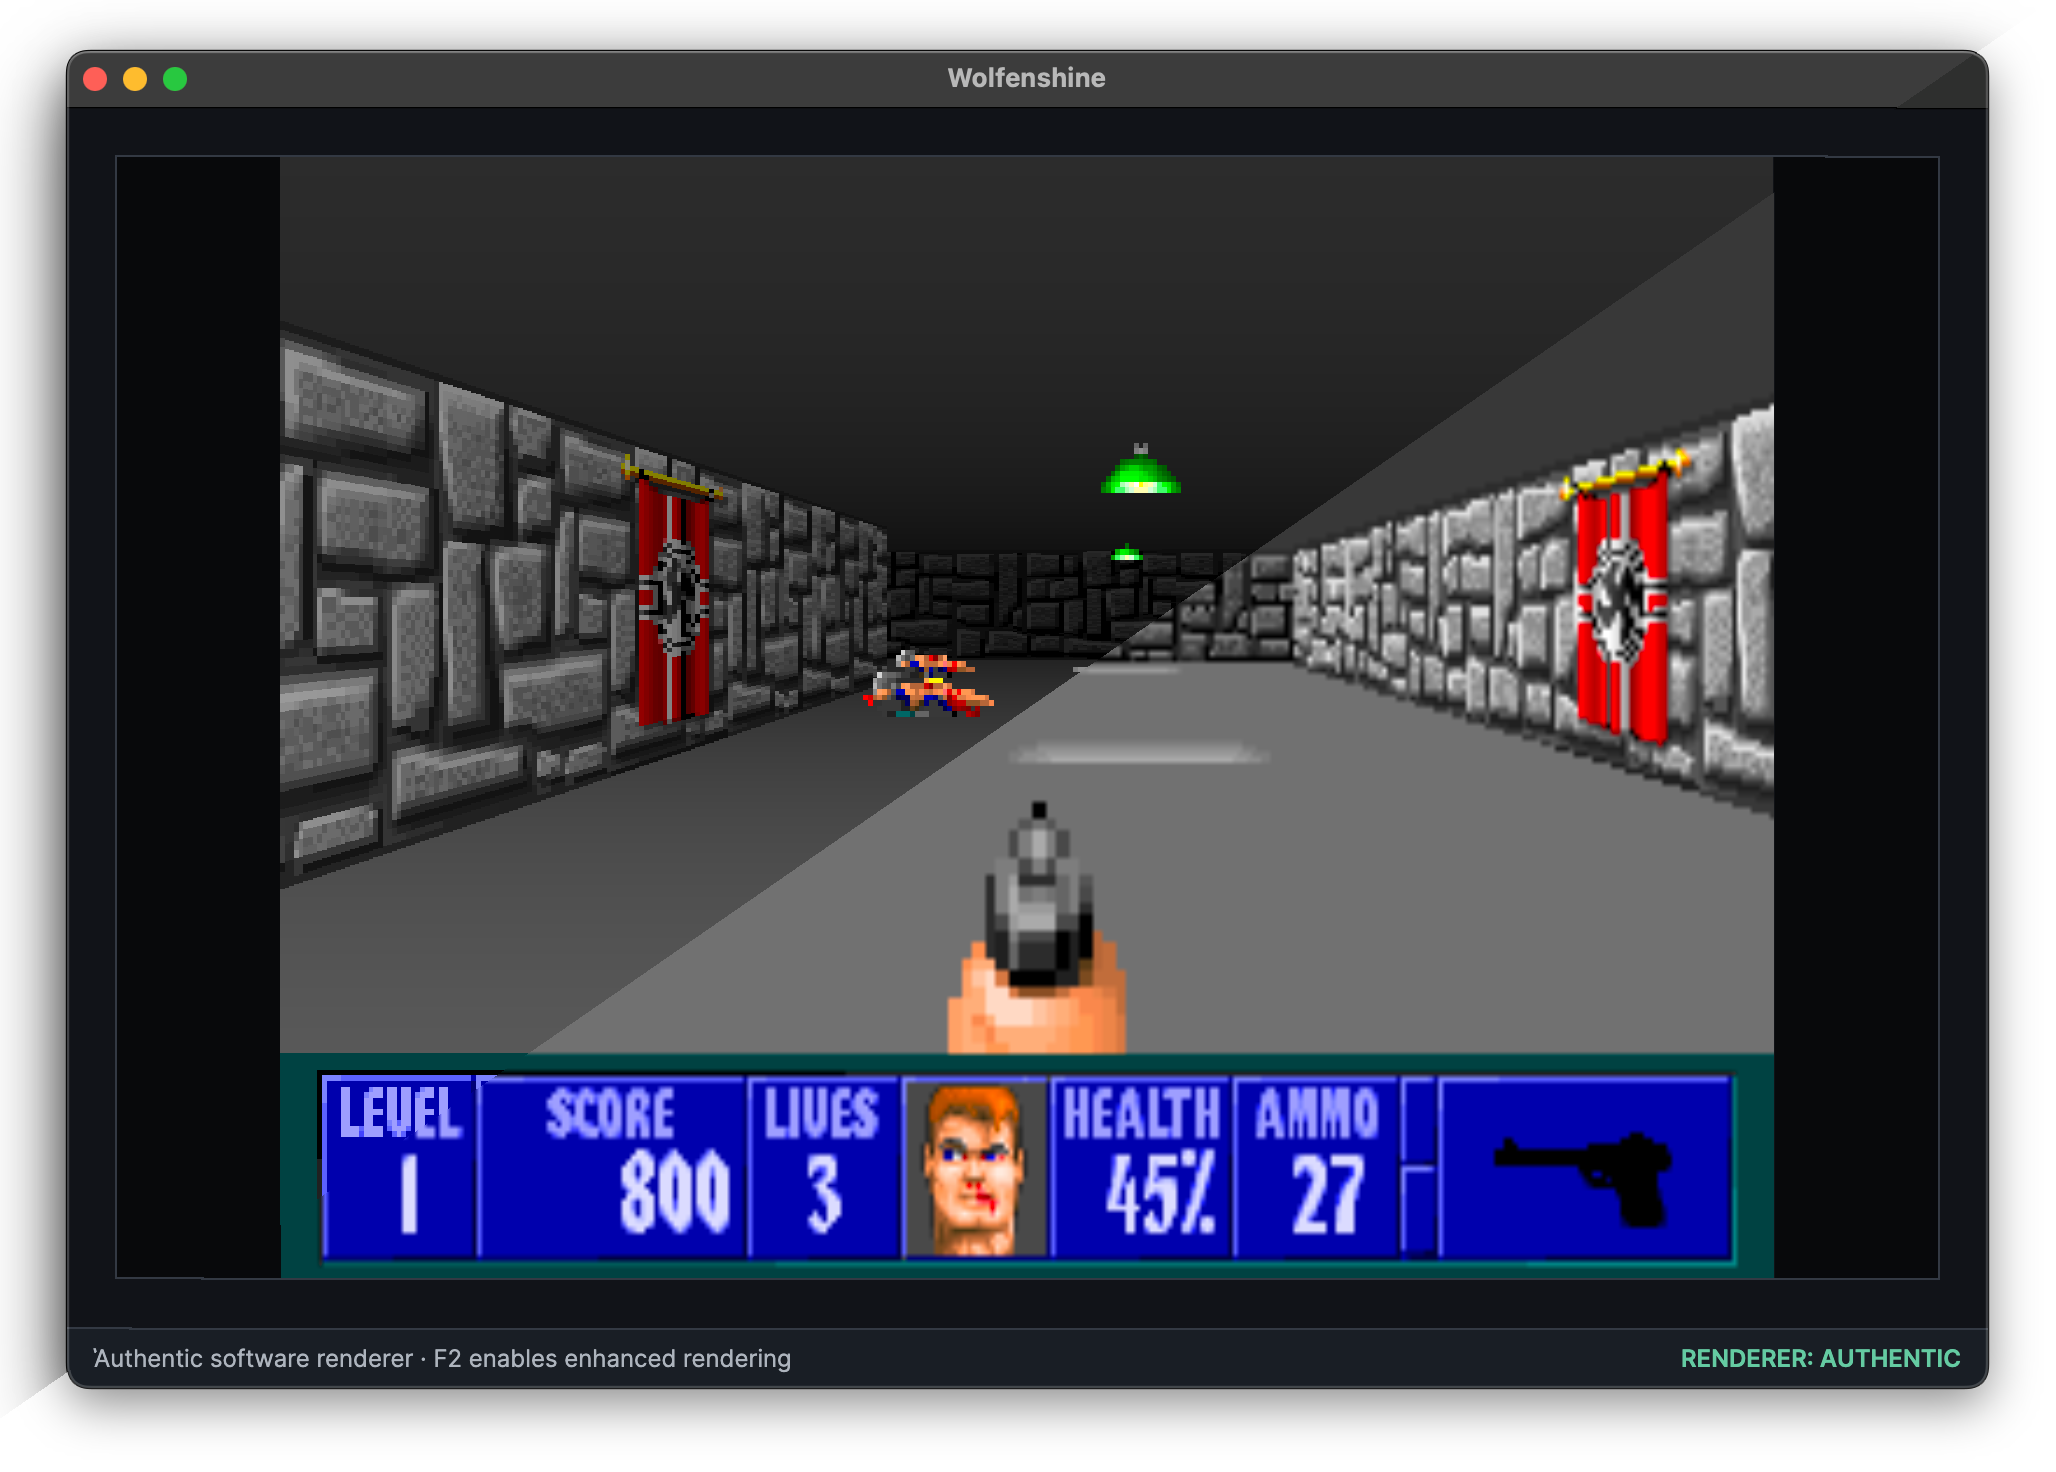
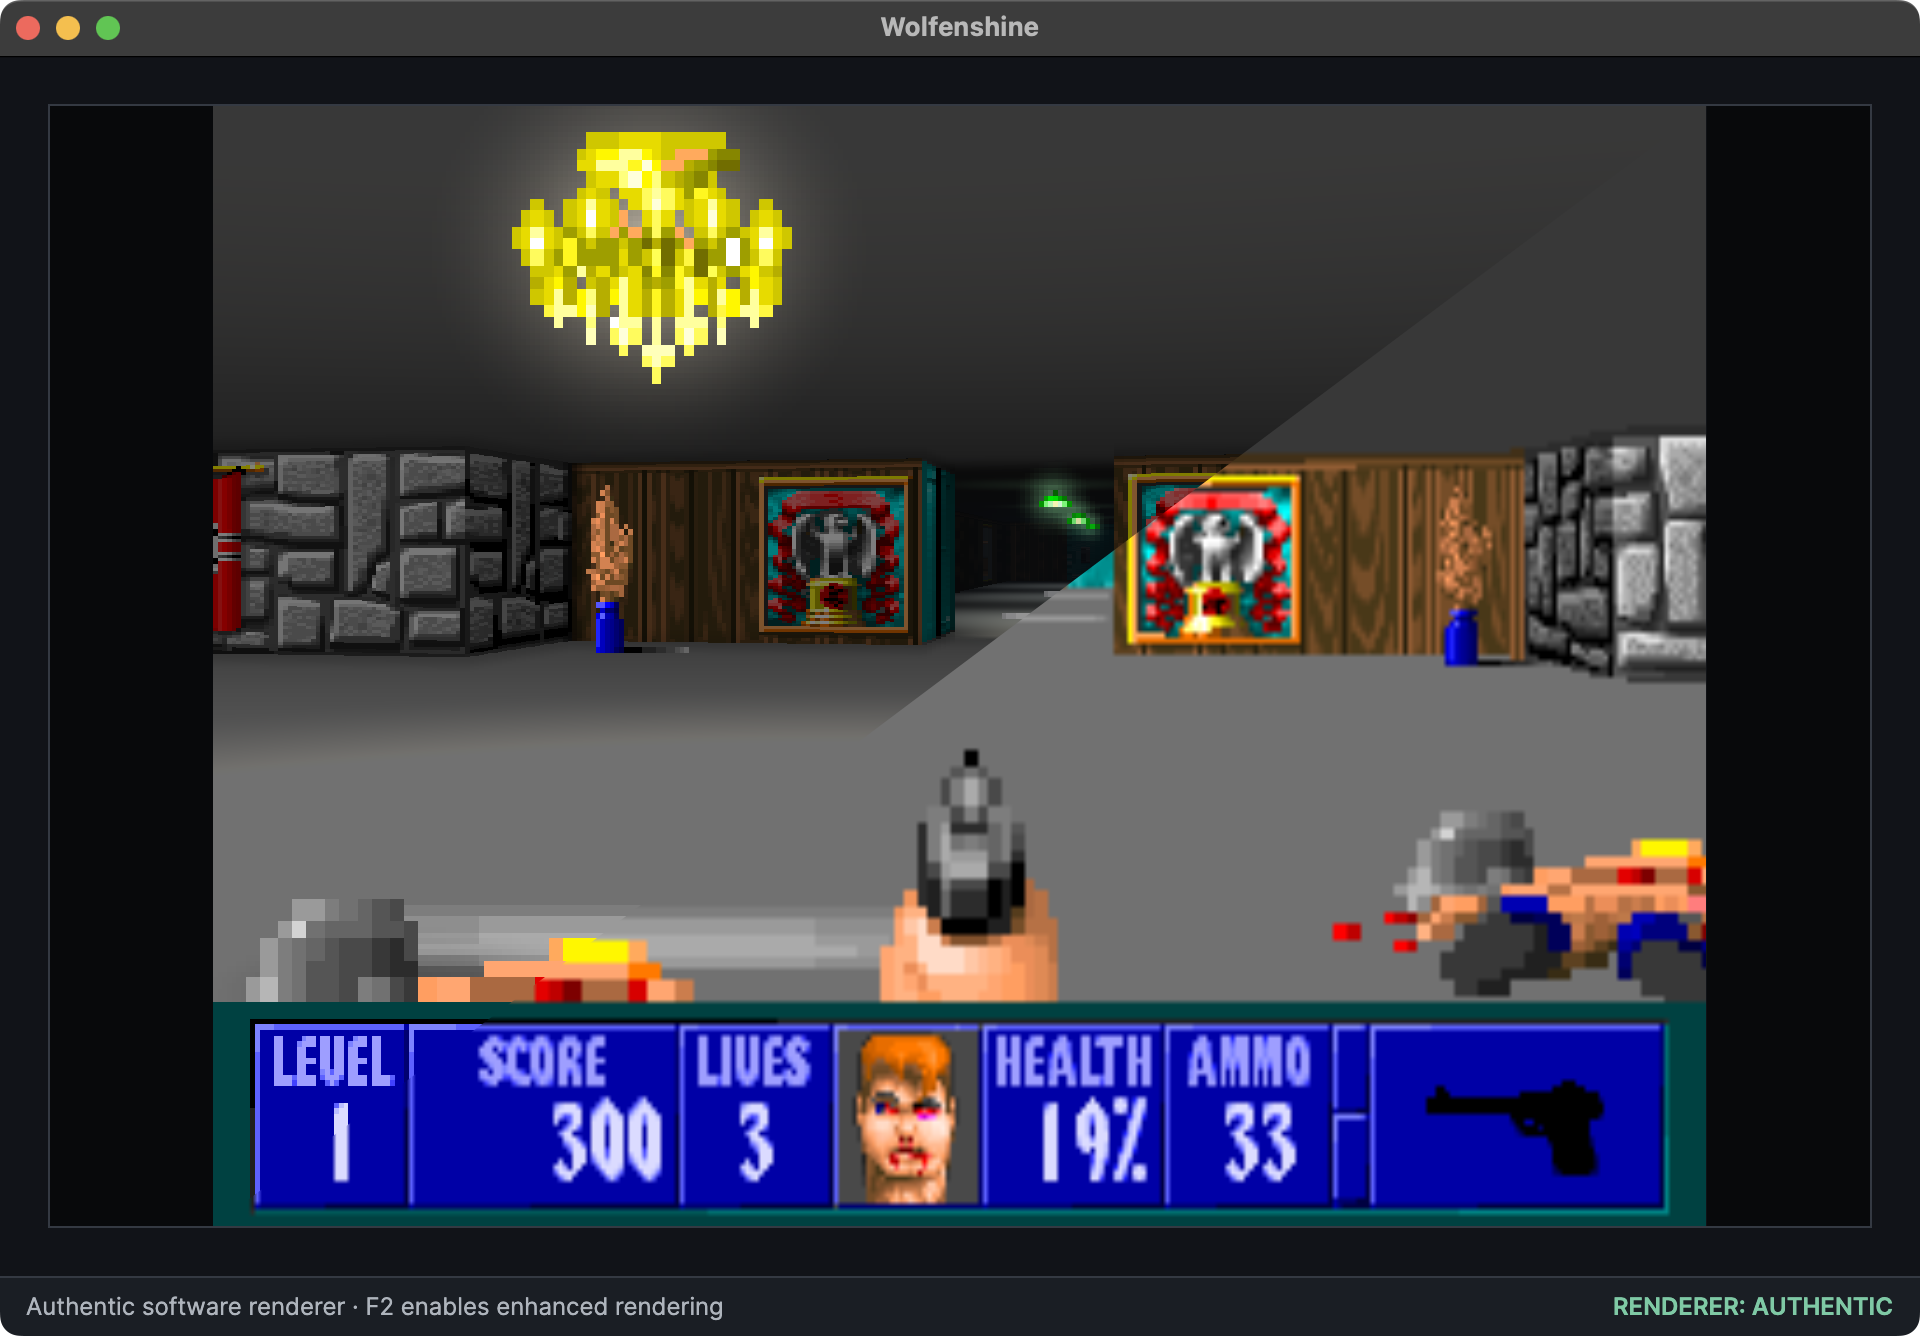
Feature: Auto-generate old/new renderer screenshot.

diff --git a/Wolfenshine/Views/MainWindow.axaml.cs b/Wolfenshine/Views/MainWindow.axaml.cs
@@ -14,6 +14,13 @@ using Avalonia.Input;
 using Avalonia.Threading;
 using Wolfenshine.Game;
 using Wolfenshine.ViewModels;
+#if DEBUG
+using System.Runtime.InteropServices;
+using Avalonia;
+using Avalonia.VisualTree;
+using DTC.Core;
+using SkiaSharp;
+#endif
 
 namespace Wolfenshine.Views;
 
@@ -44,6 +51,7 @@ public sealed partial class MainWindow : Window
     private PlayerWeapon? m_weaponSelection;
 #if DEBUG
     private MapWindow m_mapWindow;
+    private bool m_isCapturingRendererComparison;
     private readonly HashSet<Key> m_debugKeysDown = [];
 #endif
 
@@ -85,6 +93,12 @@ public sealed partial class MainWindow : Window
         if (e.Key == Key.M)
         {
             ToggleMapWindow();
+            e.Handled = true;
+            return;
+        }
+        if (e.Key == Key.C)
+        {
+            CaptureRendererComparison();
             e.Handled = true;
             return;
         }
@@ -161,6 +175,159 @@ public sealed partial class MainWindow : Window
     }
 
 #if DEBUG
+    private async void CaptureRendererComparison()
+    {
+        if (m_isCapturingRendererComparison)
+            return;
+        if (DataContext is not MainWindowViewModel
+            {
+                HasGameData: true,
+                IsSelectingDifficulty: false,
+                IsShowingLevelStats: false,
+                IsPaused: false
+            } viewModel)
+        {
+            Logger.Instance.Warn("Renderer comparison capture requires active, unpaused gameplay.");
+            return;
+        }
+
+        m_isCapturingRendererComparison = true;
+        var timerWasEnabled = m_gameTimer.IsEnabled;
+        var originalEnhancedMode = viewModel.IsEnhancedRendering;
+        m_gameTimer.Stop();
+        try
+        {
+            Logger.Instance.Info("Capturing authentic and enhanced renderer frames.");
+            var repositoryDirectory = FindRepositoryDirectory();
+            var screenshotDirectory = Directory.CreateDirectory(
+                Path.Combine(repositoryDirectory.FullName, "local", "screenshots"));
+            var authenticPath = Path.Combine(screenshotDirectory.FullName, "renderer-authentic.png");
+            var enhancedPath = Path.Combine(screenshotDirectory.FullName, "renderer-enhanced.png");
+
+            if (viewModel.IsEnhancedRendering)
+                viewModel.ToggleRenderer();
+            await WaitForRendererFrame();
+            await CaptureMacOsWindow(authenticPath);
+
+            viewModel.ToggleRenderer();
+            await WaitForRendererFrame();
+            await CaptureMacOsWindow(enhancedPath);
+
+            using var authentic = SKBitmap.Decode(authenticPath) ??
+                                  throw new InvalidDataException("The authentic screenshot is invalid.");
+            using var enhanced = SKBitmap.Decode(enhancedPath) ??
+                                 throw new InvalidDataException("The enhanced screenshot is invalid.");
+            using var comparison = CreateRendererComparison(authentic, enhanced);
+            var comparisonPath = Path.Combine(repositoryDirectory.FullName, "img", "renderer-comparison.png");
+            SavePng(comparison, comparisonPath);
+            Logger.Instance.Info(
+                $"Captured authentic and enhanced renders, then updated {comparisonPath}.");
+        }
+        catch (Exception exception)
+        {
+            Logger.Instance.Error($"Renderer comparison capture failed: {exception}");
+        }
+        finally
+        {
+            if (viewModel.IsEnhancedRendering != originalEnhancedMode)
+                viewModel.ToggleRenderer();
+            if (timerWasEnabled)
+            {
+                m_gameClock.Restart();
+                m_gameTimer.Start();
+            }
+            m_isCapturingRendererComparison = false;
+        }
+    }
+
+    private SKBitmap CreateRendererComparison(SKBitmap authentic, SKBitmap enhanced)
+    {
+        if (authentic.Width != enhanced.Width || authentic.Height != enhanced.Height)
+            throw new InvalidDataException("Authentic and enhanced screenshots have different dimensions.");
+        var comparison = new SKBitmap(authentic.Info);
+        using var canvas = new SKCanvas(comparison);
+        canvas.DrawBitmap(authentic, 0.0f, 0.0f);
+        var topLeft = GameViewport.TranslatePoint(default, this) ?? default;
+        var bottomRight = GameViewport.TranslatePoint(
+            new Point(GameViewport.Bounds.Width, GameViewport.Bounds.Height),
+            this) ?? default;
+        var scale = RenderScaling;
+        var windowContentOffsetX = (authentic.Width - (Bounds.Width * scale)) * 0.5;
+        var windowContentOffsetY = authentic.Height - (Bounds.Height * scale);
+        using var enhancedTriangle = new SKPath();
+        enhancedTriangle.MoveTo(
+            (float)(windowContentOffsetX + (topLeft.X * scale)),
+            (float)(windowContentOffsetY + (topLeft.Y * scale)));
+        enhancedTriangle.LineTo(
+            (float)(windowContentOffsetX + (bottomRight.X * scale)),
+            (float)(windowContentOffsetY + (topLeft.Y * scale)));
+        enhancedTriangle.LineTo(
+            (float)(windowContentOffsetX + (topLeft.X * scale)),
+            (float)(windowContentOffsetY + (bottomRight.Y * scale)));
+        enhancedTriangle.Close();
+        canvas.Save();
+        canvas.ClipPath(enhancedTriangle, SKClipOperation.Intersect, antialias: true);
+        canvas.DrawBitmap(enhanced, 0.0f, 0.0f);
+        canvas.Restore();
+        return comparison;
+    }
+
+    private async Task WaitForRendererFrame()
+    {
+        UpdateLayout();
+        await Task.Delay(150);
+    }
+
+    private async Task CaptureMacOsWindow(string path)
+    {
+        if (!OperatingSystem.IsMacOS())
+            throw new PlatformNotSupportedException("Renderer comparison capture currently requires macOS.");
+        var platformHandle = TryGetPlatformHandle();
+        if (platformHandle == null || platformHandle.HandleDescriptor != "NSWindow")
+            throw new InvalidOperationException("Could not obtain Wolfenshine's native macOS window.");
+        var selector = SelRegisterName("windowNumber");
+        var windowNumber = ObjcMsgSend(platformHandle.Handle, selector).ToInt64();
+        using var process = Process.Start(new ProcessStartInfo
+        {
+            FileName = "/usr/sbin/screencapture",
+            UseShellExecute = false,
+            CreateNoWindow = true,
+            ArgumentList = { "-x", "-o", "-l", windowNumber.ToString(), path }
+        }) ?? throw new InvalidOperationException("Could not start the macOS screenshot utility.");
+        await process.WaitForExitAsync();
+        if (process.ExitCode != 0 || !File.Exists(path))
+            throw new IOException($"macOS could not capture Wolfenshine's window to {path}.");
+    }
+
+    [DllImport("/usr/lib/libobjc.A.dylib", EntryPoint = "sel_registerName")]
+    private static extern IntPtr SelRegisterName(string name);
+
+    [DllImport("/usr/lib/libobjc.A.dylib", EntryPoint = "objc_msgSend")]
+    private static extern IntPtr ObjcMsgSend(IntPtr receiver, IntPtr selector);
+
+    private static DirectoryInfo FindRepositoryDirectory()
+    {
+        foreach (var startingPath in new[] { Environment.CurrentDirectory, AppContext.BaseDirectory })
+        {
+            for (var directory = new DirectoryInfo(startingPath); directory != null; directory = directory.Parent)
+            {
+                if (File.Exists(Path.Combine(directory.FullName, "README.md")) &&
+                    Directory.Exists(Path.Combine(directory.FullName, "img")))
+                {
+                    return directory;
+                }
+            }
+        }
+        throw new DirectoryNotFoundException("Could not locate the Wolfenshine repository directory.");
+    }
+
+    private static void SavePng(SKBitmap bitmap, string path)
+    {
+        using var stream = new FileStream(path, FileMode.Create, FileAccess.Write, FileShare.None);
+        if (!bitmap.Encode(stream, SKEncodedImageFormat.Png, 100))
+            throw new IOException($"Could not encode {path}.");
+    }
+
     private void ToggleMapWindow()
     {
         if (m_mapWindow != null)

diff --git a/README.md b/README.md
@@ -126,10 +126,13 @@ Debug builds provide a few development conveniences that are omitted from Releas
 | Key | Action |
 |---|---|
 | `I` | Log the player's position and facing angle, weapon, doors, actors, sprite resolution, projection values, and nearby decorations. |
+| `C` | On macOS, capture authentic and enhanced frames and rebuild `img/renderer-comparison.png` with a diagonal split. |
 | `R` | Restore health and ammunition and unlock all weapons. |
 | `M` | Toggle the textured map overview. |
 | `S` | Save the current level, position, and direction as a quick test location. |
 | `L` | Restart at the saved test location. |
+
+The comparison capture keeps its clean source images in the Git-ignored `local/screenshots/` directory and overwrites the tracked README comparison image only after both renderer captures succeed.
 
 ### Wolfenstein 3D data files
 
